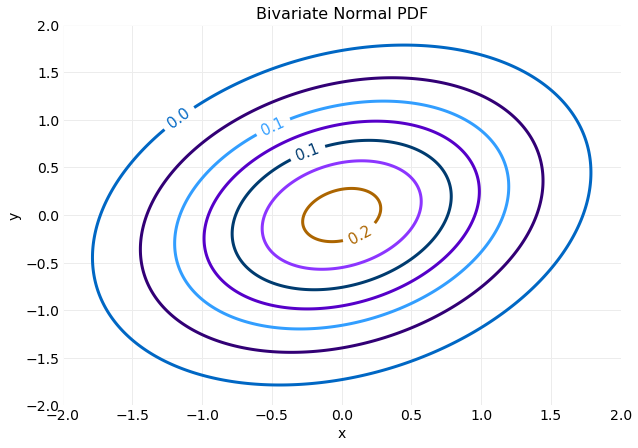
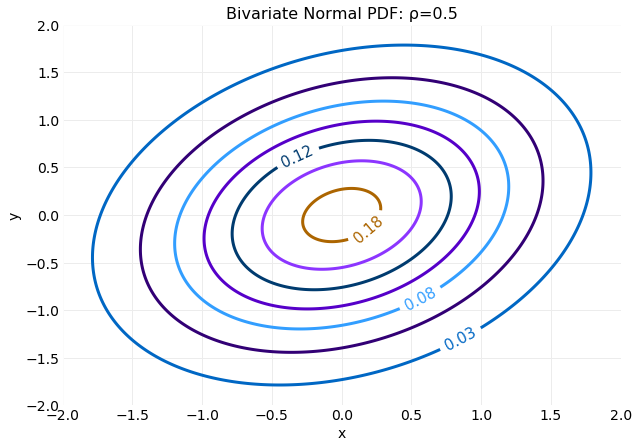
cleanup

diff --git a/hydrogen_notebooks/distributions/bivariate_normal_distribution.py b/hydrogen_notebooks/distributions/bivariate_normal_distribution.py
@@ -72,7 +72,7 @@ for i in numpy.arange(npts):
 figure, axis = pyplot.subplots(figsize=(10, 7))
 axis.set_xlabel("x")
 axis.set_ylabel("y")
-axis.set_title("Bivariate Normal PDF")
+axis.set_title(f"Bivariate Normal PDF: ρ={ρ}")
 contour = axis.contour(x1_grid, y1_grid, f_x1_x2, cmap=config.contour_color_map)
-axis.clabel(contour, contour.levels[::2], fmt="%.1f", inline=True, fontsize=15)
+axis.clabel(contour, contour.levels[::2], fmt="%.2f", inline=True, fontsize=15)
 config.save_post_asset(figure, "bivariate_normal_distribution", "bivariate_pdf_contours")
